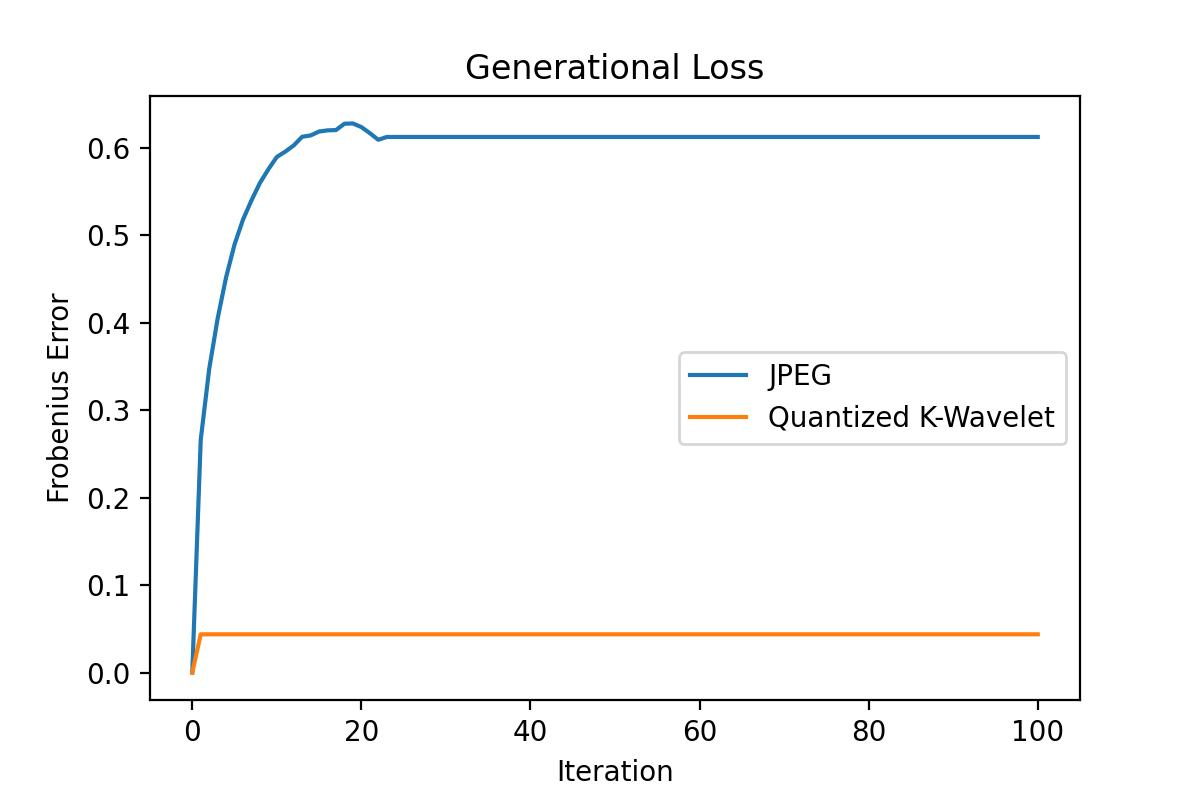
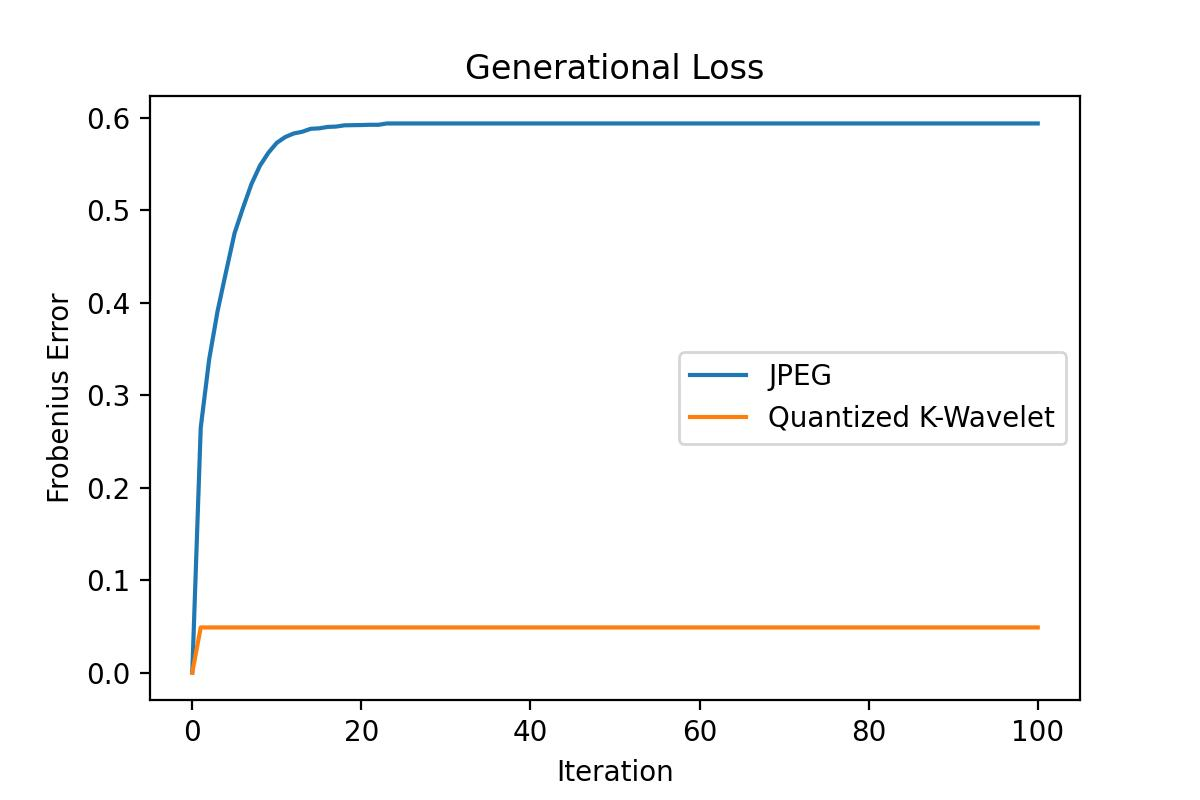
normalize l2 norm before computing error

diff --git a/utils/prepare_data.py b/utils/prepare_data.py
@@ -28,17 +28,16 @@ if __name__ == '__main__':
         for slice_idx in range(n_slices):
             X_raw = combine_all_coils(volume_kspace,slice_idx)
             X = resize_scan(X_raw)
-            X = quantize(X)
             X_encode = np.array(k_encode(K,X)).flatten()
             X = np.array(X).flatten()
             if filename[0]=='file_brain_AXT2_200_2000482':
                 test_slice_name.append(filename[0]+'_'+str(slice_idx))
-                test_slice_wavelet.append(X_encode)
-                test_slice_image.append(X)
+                test_slice_wavelet.append(quantize(X_encode))
+                test_slice_image.append(quantize(X))
             else:
                 train_slice_name.append(filename[0]+'_'+str(slice_idx))
-                train_slice_wavelet.append(X_encode)
-                train_slice_image.append(X)
+                train_slice_wavelet.append(quantize(X_encode))
+                train_slice_image.append(quantize(X))
             #print(X_encode.shape)
         ii+=1
 

diff --git a/utils/common_fcns.py b/utils/common_fcns.py
@@ -7,6 +7,7 @@ import matplotlib
 import fastmri
 from fastmri.data import transforms as T
 from PIL import Image
+from sklearn.preprocessing import normalize
 
 # Some functions taken from HW1 - MRI
 
@@ -67,6 +68,8 @@ def idwt(levels, wdom_data, slices=None):
   return pywt.waverec2(c, 'db4', mode='periodization')
 
 def frob_error(X_reconstruct,X):
+  X_reconstruct = normalize(X_reconstruct, axis=1, norm='l2')
+  X = normalize(X, axis=1, norm='l2')
   num = np.linalg.norm(X_reconstruct-X, ord='fro')
   den = np.linalg.norm(X, ord='fro')
   return num/den
